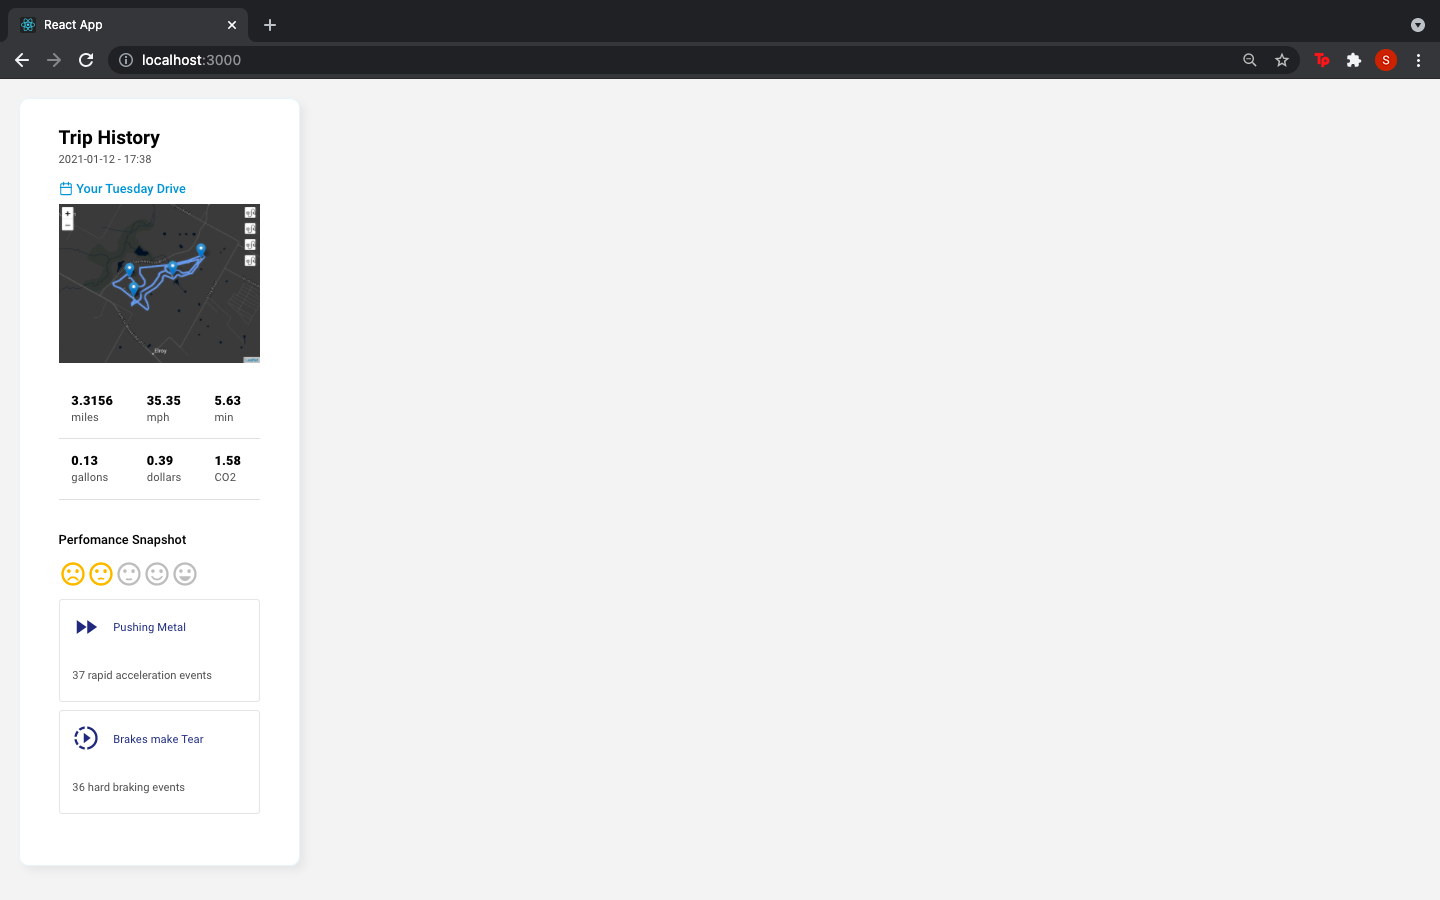
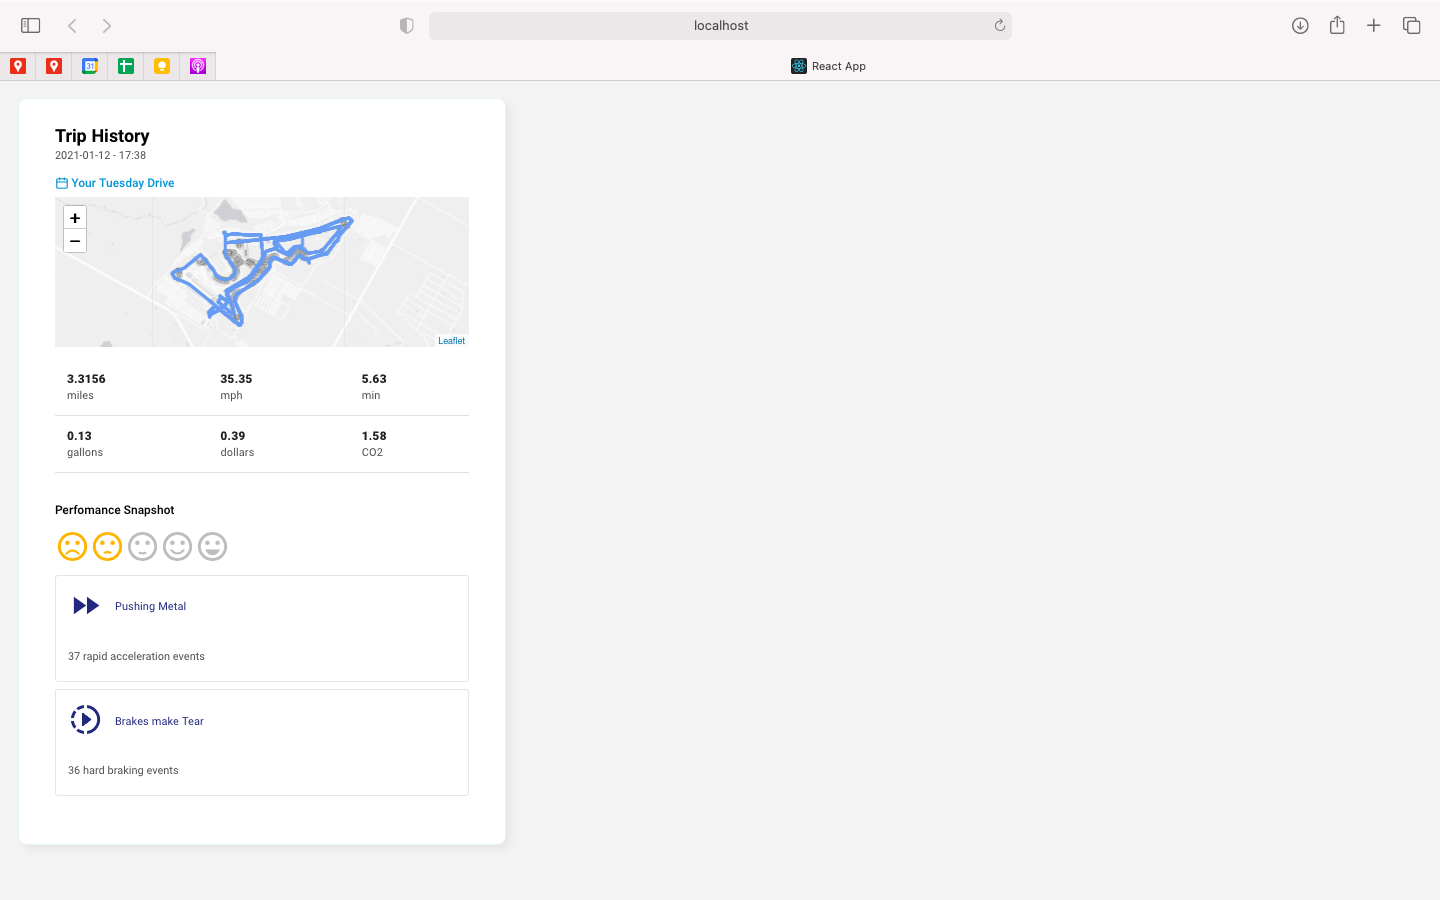
Final

Changed region(s): [[0.0, 0.0, 1.0, 0.0933], [0.0312, 0.1244, 0.25, 0.9022], [0.25, 0.4044, 0.2812, 0.4356]]

diff --git a/src/components/Home/TallyComponent.js b/src/components/Home/TallyComponent.js
@@ -1,8 +1,9 @@
-import { Component } from  'react';
+import { Component } from 'react';
 import Container from '@material-ui/core/Container'
 import Table from '@material-ui/core/Table';
-import TableCell from '@material-ui/core/TableCell';
+import TableBody from '@material-ui/core/TableBody';
 import TableRow from '@material-ui/core/TableRow';
+import TableCell from '@material-ui/core/TableCell';
 import { getDistance } from 'geolib';
 import './TallyStyling.css'
 import data from './data.json'
@@ -14,77 +15,78 @@ var gallon = 0;
 var price = 0;
 var carbon = 0;
 
-class Tally extends Component{
+class Tally extends Component {
     render() {
         return (
-            <Container className = "tally-container">
-                    <Table>
+            <Container className="tally-container">
+                <Table>
+                    <TableBody>
                         <TableRow>
                             <TableCell>
-                            <span className = "tally-val">
-                                {data.geometry.coordinates.map((item, index, element) => {
-                                    if(index < (data.geometry.coordinates.length-1))
-                                        {
-                                            totalDist = totalDist + getDistance({ latitude: item[1], longitude: item[0] },{ latitude: element[index+1][1], longitude: element[index+1][0]});
+                                <span className="tally-val">
+                                    {data.geometry.coordinates.map((item, index, element) => {
+                                        if (index < (data.geometry.coordinates.length - 1)) {
+                                            totalDist = totalDist + getDistance({ latitude: item[1], longitude: item[0] }, { latitude: element[index + 1][1], longitude: element[index + 1][0] });
                                         }
-                                })}
-                                {totalDist = totalDist * 0.0006}
-                            </span>    
-                            <br>
-                            </br>
-                            <div className = "tally-label">miles</div>
+                                    })}
+                                    {totalDist = totalDist * 0.0006}
+                                </span>
+                                <br>
+                                </br>
+                                <div className="tally-label">miles</div>
                             </TableCell>
                             <TableCell>
-                                <span className = "tally-val">
+                                <span className="tally-val">
                                     {data.segment_stats.data.map((item, index) => {
                                         avgSpeed = (avgSpeed + item.speed_mph);
                                     })}
                                     {avgSpeed = parseFloat((avgSpeed / data.segment_stats.data.length)).toFixed(2)}
-                                </span>  
-                            <br>
-                            </br>
-                            <div className = "tally-label">mph</div>
-                            </TableCell>
-                            <TableCell>
-                                <span className = "tally-val">
-                                    {avgTime = parseFloat(((totalDist / avgSpeed)*60)).toFixed(2)}
-                                </span>  
+                                </span>
                                 <br>
                                 </br>
-                                <div className = "tally-label">min</div>
+                                <div className="tally-label">mph</div>
+                            </TableCell>
+                            <TableCell>
+                                <span className="tally-val">
+                                    {avgTime = parseFloat(((totalDist / avgSpeed) * 60)).toFixed(2)}
+                                </span>
+                                <br>
+                                </br>
+                                <div className="tally-label">min</div>
                             </TableCell>
                         </TableRow>
                         <TableRow>
                             <TableCell>
-                            <span className = "tally-val">
-                                {/* Assume fuel efficiency is 25 mpg */}
-                                {gallon = parseFloat((totalDist / 25)).toFixed(2)}
-                            </span>  
-                            <br>
-                            </br>
-                            <div className = "tally-label">gallons</div>
+                                <span className="tally-val">
+                                    {/* Assume fuel efficiency is 25 mpg */}
+                                    {gallon = parseFloat((totalDist / 25)).toFixed(2)}
+                                </span>
+                                <br>
+                                </br>
+                                <div className="tally-label">gallons</div>
                             </TableCell>
                             <TableCell>
-                                <span className = "tally-val">
+                                <span className="tally-val">
                                     {/* Assume fuel price is $3 */}
                                     {price = gallon * 3}
-                                </span>  
+                                </span>
                                 <br>
                                 </br>
-                                <div className = "tally-label">dollars</div>
+                                <div className="tally-label">dollars</div>
                             </TableCell>
                             <TableCell>
-                                <span className = "tally-val">
-                                {carbon = parseFloat((gallon * 12.13)).toFixed(2)}
-                                </span>  
+                                <span className="tally-val">
+                                    {carbon = parseFloat((gallon * 12.13)).toFixed(2)}
+                                </span>
                                 <br>
                                 </br>
-                                <div className = "tally-label">CO2</div>
+                                <div className="tally-label">CO2</div>
                             </TableCell>
                         </TableRow>
-                    </Table>
+                    </TableBody>
+                </Table>
             </Container>
         )
-      }
+    }
 };
 export default Tally;

diff --git a/src/components/Home/RoutineMachine.js b/src/components/Home/RoutineMachine.js
@@ -3,19 +3,17 @@ import { createControlComponent } from "@react-leaflet/core";
 import "leaflet-routing-machine";
 import data from './data.json'
 const createRoutineMachineLayer = (props) => {
-  // {data.geometry.coordinatesmap((item, index, element) => {
-  //   if(index < (data.segment_stats.data.length-1))
-  //   {
-   //     L.latLng(item[1], item[0])
-   //   }
-   // })}
-
-   const instance = L.Routing.control({
-    waypoints: [
-      L.latLng(33.52001088075479, 36.26829385757446),
-      L.latLng(33.50546582848033, 37.29547681726967),
-      L.latLng(33.50546582848033, 45.29547681726967)
-    ],
+  
+    var coordinatesArray = [];
+    {data.geometry.coordinates.map((item, index, element) => {
+        if(index < (data.segment_stats.data.length-1))
+        {
+           coordinatesArray.push(L.latLng(item[1], item[0])); 
+         }
+       })}
+       
+    const instance = L.Routing.control({
+    waypoints: coordinatesArray,
     lineOptions: {
       styles: [{ color: "#6FA1EC", weight: 4 }]
     },
@@ -24,7 +22,8 @@ const createRoutineMachineLayer = (props) => {
     routeWhileDragging: false,
     draggableWaypoints: false,
     fitSelectedRoutes: true,
-    showAlternatives: false
+    showAlternatives: false,
+    createMarker: function() { return null; }
   });
 
   return instance;

diff --git a/src/components/Home/MapComponent.js b/src/components/Home/MapComponent.js
@@ -1,7 +1,7 @@
 import Container from '@material-ui/core/Container'
 import { Component } from "react";
 import { MapContainer, TileLayer } from "react-leaflet";
- import RoutineMachine from './RoutineMachine';
+import RoutineMachine from './RoutineMachine';
 import './MapStyling.css'
 import 'leaflet/dist/leaflet.css';
 
@@ -13,7 +13,7 @@ class Map extends Component {
              doubleClickZoom={false}
              id="mapId"
              zoom={14}
-             center={[33.5024, 36.2988]}
+             center={[30.13176, -97.639651]}
              >
                  <TileLayer
                      url="https://server.arcgisonline.com/ArcGIS/rest/services/Canvas/World_Light_Gray_Base/MapServer/tile/{z}/{y}/{x}"

diff --git a/src/components/Home/DayNavComponent.js b/src/components/Home/DayNavComponent.js
@@ -17,7 +17,6 @@ class DayNav extends Component{
                 <div className = "daynav-title">
                     Trip History
                 </div>
-                
                     <p className = "daynav-digits">
                     {date}  -  {time}
                     </p>

diff --git a/src/components/Home/HomeStyling.css b/src/components/Home/HomeStyling.css
@@ -7,8 +7,6 @@
     border: .4px solid rgba(37, 150, 207, .1);
     margin: 24px;
     box-shadow: 6px 6px 10px rgba(0, 0, 0, 0.05);
-
-    
 }
 
 @media only screen 
